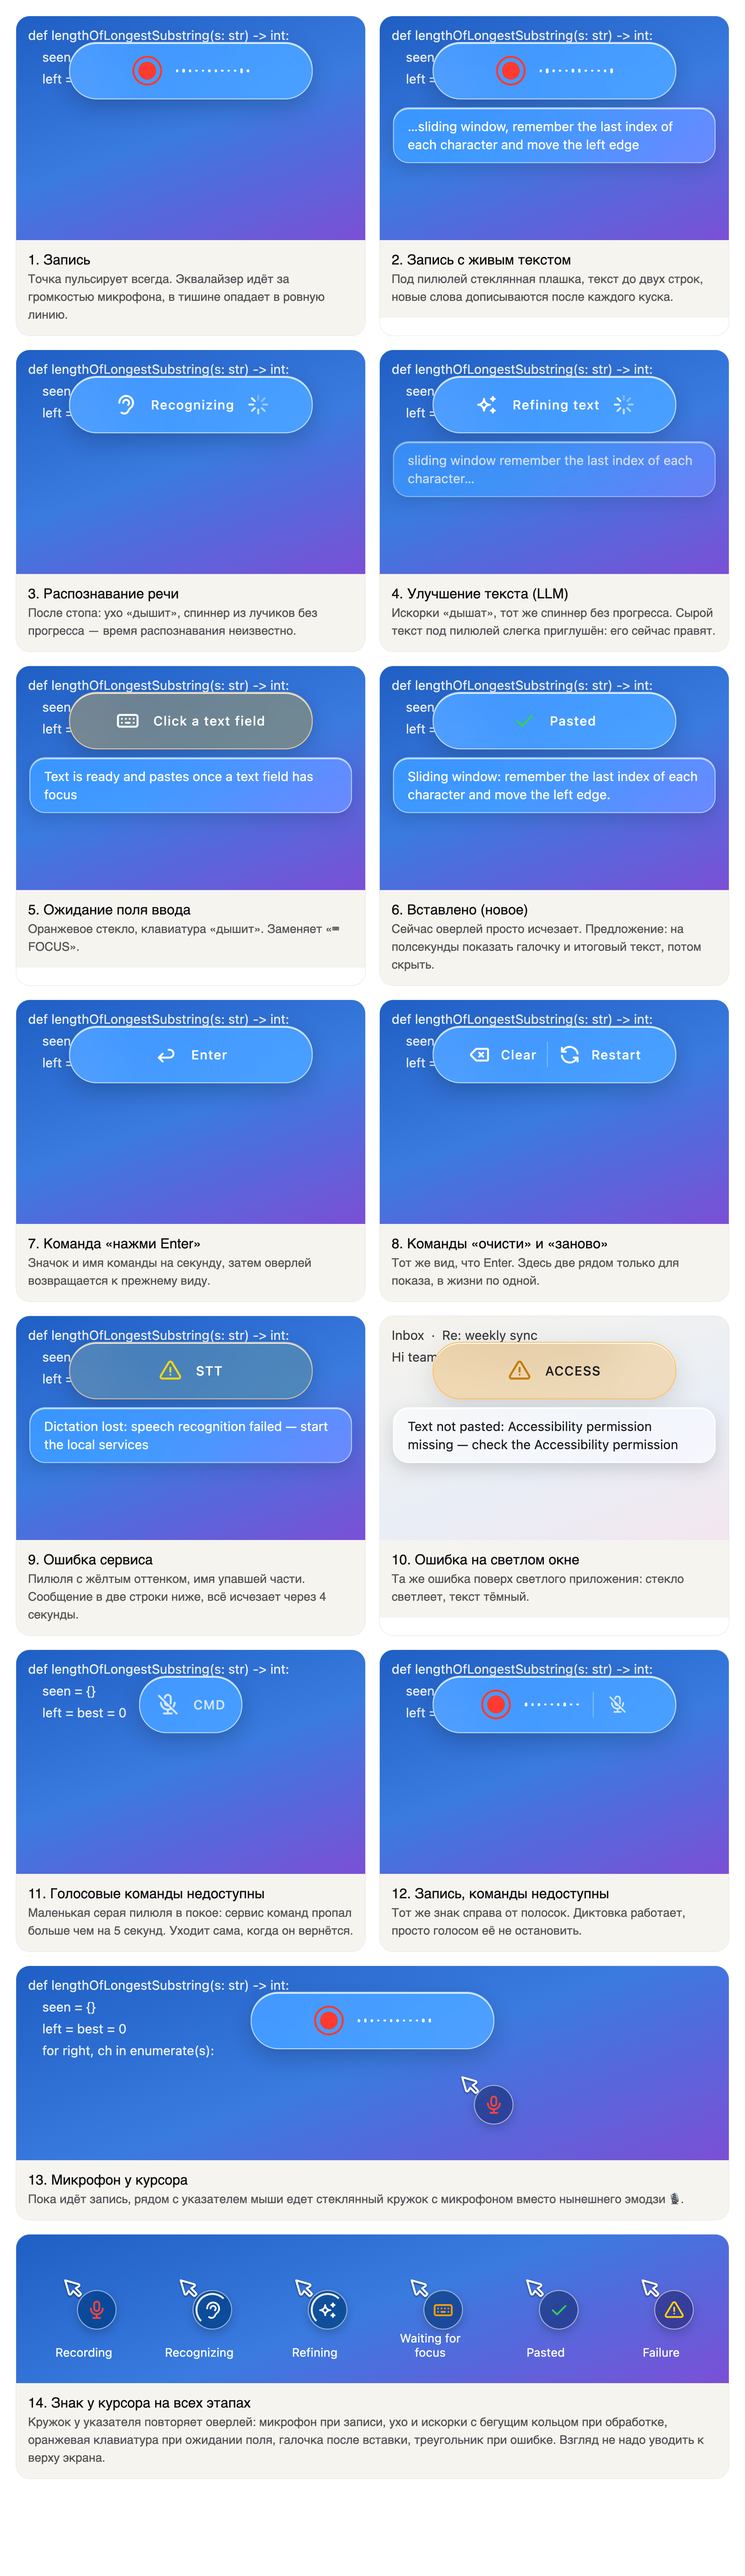
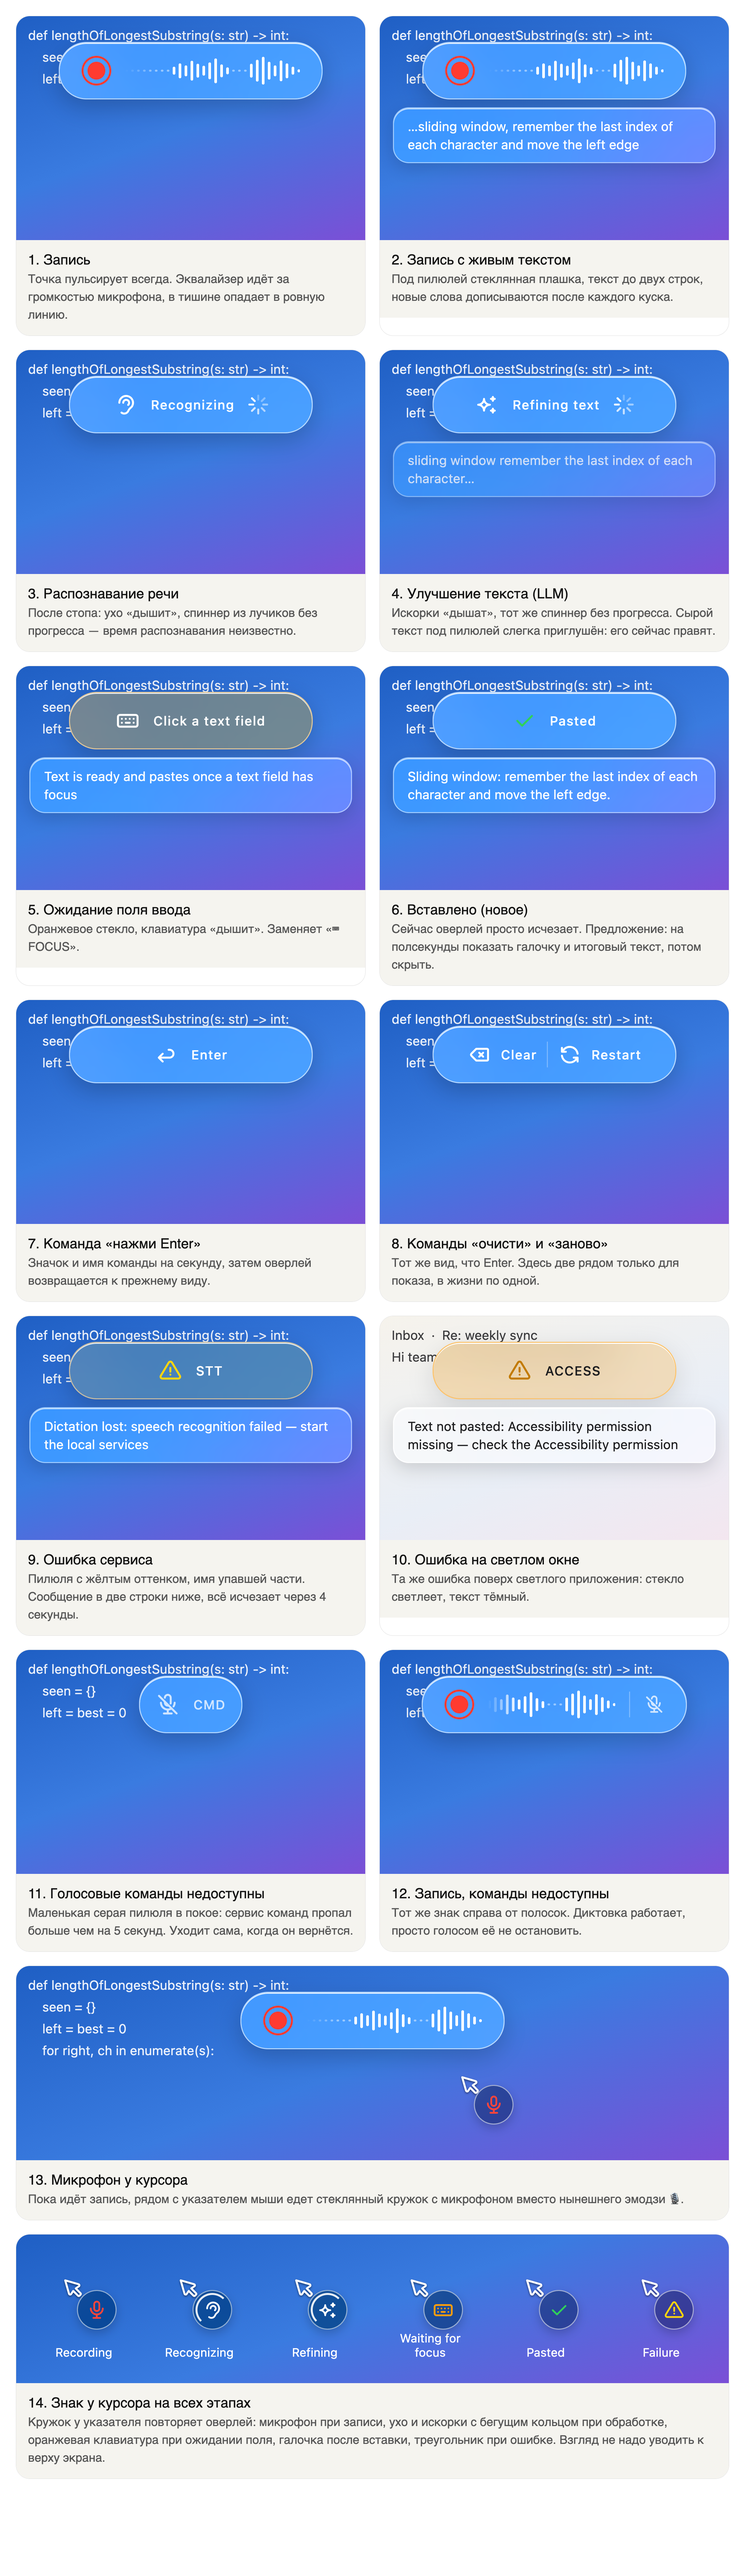
docs(openspec): replace the equalizer with a scrolling waveform in redesign-overlay-liquid-glass (#189)

diff --git a/openspec/changes/redesign-overlay-liquid-glass/mockups/overlay-states.html b/openspec/changes/redesign-overlay-liquid-glass/mockups/overlay-states.html
@@ -20,9 +20,10 @@ body.still *{animation:none!important;transition:none!important}
 .rec{width:26px;height:26px;border-radius:50%;border:2px solid #ff3b30;display:flex;align-items:center;justify-content:center;flex:none}
 .rec i{display:block;width:18px;height:18px;border-radius:50%;background:#ff3b30;animation:rp 1.6s ease-in-out infinite}
 @keyframes rp{50%{transform:scale(.82)}}
-.bars{display:flex;align-items:center;gap:4px;height:28px}
-.bars span{width:2.5px;border-radius:2px;background:currentColor;height:30%;animation:lv 1.1s ease-in-out infinite}
-@keyframes lv{0%,100%{height:22%}50%{height:var(--h)}}
+.bars{position:relative;height:28px;overflow:hidden;flex:none;-webkit-mask-image:linear-gradient(90deg,transparent 0,#000 30px);mask-image:linear-gradient(90deg,transparent 0,#000 30px)}
+.bars .trk{position:absolute;left:0;top:0;bottom:0;display:flex;align-items:center;gap:3.5px;will-change:transform}
+.bars span{flex:none;width:2.5px;border-radius:2px;background:currentColor;height:2px}
+.bars span.q{opacity:.45}
 .ic{font-size:24px;line-height:1}
 .lbl{font-size:13px;font-weight:500;letter-spacing:.06em}
 .spin{width:20px;height:20px;border-radius:50%;border:2.5px solid currentColor;border-right-color:transparent;opacity:.85;animation:sp .9s linear infinite}
@@ -151,10 +152,15 @@ Hi team, quick update on the release —</div>
 </div>
 <script>
 document.querySelectorAll('.spokes').forEach(s=>{for(let i=0;i<8;i++){const b=document.createElement('b');b.style.transform='rotate('+(i*45)+'deg)';b.style.animationDelay=(-(8-i)/8).toFixed(3)+'s';s.appendChild(b)}});
-document.querySelectorAll('.bars').forEach(b=>{const n=+b.dataset.n||12;for(let i=0;i<n;i++){const e=document.createElement('span');e.style.setProperty('--h',(35+Math.round(Math.random()*65))+'%');e.style.animationDelay=(-Math.random()*1.1).toFixed(2)+'s';b.appendChild(e)}});
-const all=[...document.querySelectorAll('.bars')];all.forEach(b=>b.classList.add('eqb'));let lvl=0,t0=performance.now();
-function tick(now){const t=((now-t0)/1000)%5.5,sp=t<3.2;const tg=sp?(0.45+0.55*Math.abs(Math.sin(now/180))*Math.random()):0;lvl+=(tg-lvl)*(sp?0.35:0.12);
-all.forEach(b=>[...b.children].forEach((e,i)=>{const sh=0.55+0.45*Math.sin(i*1.3+now/120);e.style.height=Math.max(2,Math.round(28*lvl*sh*(0.6+0.4*Math.random())))+'px'}));requestAnimationFrame(tick)}
+// Scrolling waveform: one column per 100 ms enters at the right edge and the strip slides left (60 pt/s).
+const PITCH=6,STEP=100;
+const waves=[...document.querySelectorAll('.bars')].map(b=>{const n=(+b.dataset.n||12)===9?22:30;b.style.width=(n*PITCH-3.5)+'px';const tr=document.createElement('div');tr.className='trk';b.appendChild(tr);for(let i=0;i<=n;i++)tr.appendChild(col(0));return {tr,off:0}});
+function col(v){const e=document.createElement('span');const h=Math.max(2,Math.round(28*v));e.style.height=h+'px';if(h<=2)e.classList.add('q');return e}
+let lvl=0,peak=0,last=performance.now(),t0=last;
+function tick(now){const dt=now-last;last=now;const t=((now-t0)/1000)%6,sp=t<3.6&&!(t>1.5&&t<1.9);
+const tg=sp?(0.35+0.65*Math.abs(Math.sin(now/170))*Math.random()):0;lvl+=(tg-lvl)*(tg>lvl?0.35:0.12);peak=Math.max(peak,lvl);
+waves.forEach(w=>{w.off+=dt*PITCH/STEP;while(w.off>=PITCH){w.off-=PITCH;w.tr.firstChild.remove();w.tr.appendChild(col(peak*(0.55+0.45*Math.random())))}w.tr.style.transform='translateX('+(-w.off).toFixed(2)+'px)'});
+if(waves.length&&waves[0].off<dt*PITCH/STEP)peak=lvl;requestAnimationFrame(tick)}
 requestAnimationFrame(tick);
 </script>
 <script>
@@ -164,6 +170,7 @@ if(q.get('bg')==='dark')document.querySelectorAll('.scene').forEach(e=>e.classLi
 if(q.get('only')){document.body.classList.add('one');document.querySelectorAll('.card').forEach(c=>{if(c.dataset.id!==q.get('only'))c.remove()})}
 if(q.get('still')){document.body.classList.add('still');
  document.querySelectorAll('.spokes').forEach(s=>[...s.children].forEach((b,i)=>b.style.opacity=(0.15+0.85*(i+1)/8).toFixed(2)));
- setTimeout(()=>document.querySelectorAll('.bars').forEach(b=>[...b.children].forEach((e,i)=>{const n=b.children.length;const env=Math.sin(Math.PI*(i+0.5)/n);const h=[0.55,0.9,0.4,1,0.7,0.5,0.85,0.35,0.95,0.6,0.75,0.45,0.8,0.5][i%14];e.style.height=Math.max(2,Math.round(28*h*(0.5+0.5*env)))+'px'})),300);
+ setTimeout(()=>{const H=[0,0,0,0,0,0,0,.08,.3,.55,.4,.7,.5,.35,.6,.9,.45,.25,0,0,.06,.5,.8,1,.65,.4,.75,.55,.3,.12];
+  waves.forEach(w=>{const n=w.tr.children.length-1;const hs=H.slice(-n);w.tr.replaceChildren(...hs.map(v=>col(v)));w.tr.style.transform='none'})},300);
  window.requestAnimationFrame=()=>0;}
 </script></body></html>

diff --git a/openspec/changes/redesign-overlay-liquid-glass/proposal.md b/openspec/changes/redesign-overlay-liquid-glass/proposal.md
@@ -1,11 +1,11 @@
 ## Why
 
-The overlay (the pill at the top of the screen, the text window under it and the 🎙 sign next to the mouse pointer) still looks like a flat light-blue plate with text glyphs (`◉ REC`, `⌨ FOCUS`, `⏎ ENTER`, `⚠ STT`). macOS 26 Tahoe draws widgets and panels in Liquid Glass. The user compared six glass styles of the pill on seven backgrounds (white, grey, black, blue with text, a muddy texture, coloured dots, coloured stripes) in mockups in chat and picked the regular frosted glass. Then they validated mockups of every overlay state in that style. The user also wants the pill to show progress honestly: speech recognition and text refinement report no progress, so a spinner must not look like a filling progress ring. And the user wants the equalizer to visibly follow the microphone.
+The overlay (the pill at the top of the screen, the text window under it and the 🎙 sign next to the mouse pointer) still looks like a flat light-blue plate with text glyphs (`◉ REC`, `⌨ FOCUS`, `⏎ ENTER`, `⚠ STT`). macOS 26 Tahoe draws widgets and panels in Liquid Glass. The user compared six glass styles of the pill on seven backgrounds (white, grey, black, blue with text, a muddy texture, coloured dots, coloured stripes) in mockups in chat and picked the regular frosted glass. Then they validated mockups of every overlay state in that style. The user also wants the pill to show progress honestly: speech recognition and text refinement report no progress, so a spinner must not look like a filling progress ring. And the user wants to see the dictation as it goes: a waveform of the microphone level that slides from right to left, as in the voice input of ChatGPT.
 
 ## What Changes
 
 - The pill and the text window under it become regular frosted glass: the system material that blurs and adapts to light or dark content beneath, rounded corners (~28 pt on the pill), a light rim highlight and a soft shadow. Icons replace the text glyphs. Every user-facing overlay label is in English.
-- Recording: a red record dot inside a ring, pulsing all the time, and a new equalizer: about 12–14 thin rounded vertical bars driven by the live microphone level. The bars jump with speech and collapse into a flat line in silence. It replaces the current equalizer.
+- Recording: a red record dot inside a ring, pulsing all the time, and a scrolling waveform instead of the current equalizer: thin rounded vertical columns of the live microphone level, one new column every 100 ms entering at the right edge while the strip slides slowly to the left (like the voice input of ChatGPT), so the last 3 s of dictation stay visible. Speech leaves tall columns, a pause leaves a dotted line; old columns fade out at the left edge.
 - Live transcript: unchanged in behaviour (up to two lines under the pill), drawn in the glass text window.
 - Speech recognition: an ear icon that breathes (fades out and back in), the label "Recognizing" and an indeterminate macOS-style spoke spinner that says nothing about when it ends.
 - Text refinement: a sparkles icon breathing in the same rhythm, the label "Refining text" and the same spoke spinner. The raw transcript under the pill is dimmed while it is refined.
@@ -13,26 +13,26 @@ The overlay (the pill at the top of the screen, the text window under it and the
 - New "Pasted" state: a green check, the label "Pasted" and the final text under the pill for about 0.5 s, then the overlay hides. Today it hides at once.
 - Command signs (Enter, Clear, Restart): an icon and the English name in the glass pill for about 1 s, as today, restyled.
 - Failure notice: amber-tinted glass with a warning triangle and the failing part's short name (STT, REFINE, VOICE, MIC, ACCESS, FAILED), the message (two lines at most) in the glass window under it. It hides after 4 s as today and stays legible over light app windows (darker icon and text there).
-- Commands-unavailable sign: a small grey glass pill with a microphone-off icon and "CMD" alone in standby. During a recording it shows to the right of the equalizer, after a thin separator.
+- Commands-unavailable sign: a small grey glass pill with a microphone-off icon and "CMD" alone in standby. During a recording it shows to the right of the waveform, after a thin separator.
 - Pointer sign: the 🎙 emoji next to the mouse pointer becomes a small round dark-glass badge (~38 pt) that mirrors the overlay at every stage: a red microphone while recording, the ear or the sparkles with a rotating indeterminate ring while processing, a pulsing orange keyboard while waiting for focus, a green check after the paste, an amber triangle on a failure. The system arrow cursor stays as it is: only the badge window next to it changes.
 
 - Design reference: `mockups/design-spec.md` (geometry, colours, icons, motion and a manual-run checklist for every state), the validated pictures of each state at 3× over a blue, a light and a dark window in `mockups/states/`, the overview `mockups/overlay-states-overview.png`, the animated mockup source `mockups/overlay-states.html` and the icons in `mockups/icons/`. The implementation matches these pictures.
 
 Current stage: PoC. Target stage: PoC.
-Scope: the look and the states of the overlay pill, its text window and the pointer sign, including the new Pasted state and the level-driven equalizer.
-Acceptance bar: every state above appears in the manual run as in the validated mockups, legible over light, dark and busy app windows; the equalizer follows speech and goes flat in silence; the spinners are indeterminate; the user pastes a healthy log of a manual run.
+Scope: the look and the states of the overlay pill, its text window and the pointer sign, including the new Pasted state and the scrolling waveform.
+Acceptance bar: every state above appears in the manual run as in the validated mockups, legible over light, dark and busy app windows; the waveform slides right to left, with tall columns for speech and dots for silence; the spinners are indeterminate; the user pastes a healthy log of a manual run.
 Out of scope: when each state shows and for how long (except the new Pasted state), the failure notice wording, the pointer sign's distance from the cursor (change bring-dictation-cursor-mic-closer), voice commands, any non-overlay UI.
 
 ## Capabilities
 
 ### Modified Capabilities
 
-- `visual-feedback`: the overlay's look, its icons and English labels, the level-driven equalizer, the indeterminate spinners, the new Pasted state and the pointer sign's state-mirroring badge.
+- `visual-feedback`: the overlay's look, its icons and English labels, the scrolling level waveform, the indeterminate spinners, the new Pasted state and the pointer sign's state-mirroring badge.
 
 ## Impact
 
 - `app/src/adapters/secondary/visualfeedback/` (macOS overlay windows, pill, text window, pointer sign).
-- `app/src/core/application/visual_indicator.rs` and the pipeline, for the Pasted signal and the microphone level feeding the equalizer.
+- `app/src/core/application/visual_indicator.rs` and the pipeline, for the Pasted signal and the microphone level feeding the waveform.
 - `docs/ubiquitous-language.md` (Pasted sign, pointer sign states).
 - Slice/component `.feature` files of the overlay capability.
 

diff --git a/openspec/changes/redesign-overlay-liquid-glass/mockups/design-spec.md b/openspec/changes/redesign-overlay-liquid-glass/mockups/design-spec.md
@@ -35,7 +35,7 @@ All pictures are rendered at 3× (1 pt = 3 px). Sizes below are in points.
   indeterminate macOS spoke spinner (`NSProgressIndicator`, `.spinning`, indeterminate), never a ring that fills.
 - **All user-facing labels in English.**
 - **Reduce Motion** (`NSWorkspace.shared.accessibilityDisplayShouldReduceMotion`): no breathing, no dot pulse, no
-  rise-in; spinners and the equalizer still move. **Reduce Transparency**: the material turns opaque by itself;
+  rise-in; spinners still move and the waveform still scrolls. **Reduce Transparency**: the material turns opaque by itself;
   keep the rim and the tints.
 
 ## 2. Geometry
@@ -73,7 +73,7 @@ message.
 | Item | Size |
 |---|---|
 | Record sign | ring 26 diameter, 2 pt stroke `systemRed`; dot 18 diameter inside, `systemRed` |
-| Equalizer | 12 bars (9 when the commands-unavailable sign shares the pill), each 2.5 wide with fully round ends, 4 apart, 28 tall area, vertically centred; a bar is never shorter than 2 |
+| Waveform | a scrolling strip of level columns (§ 6): 30 columns (22 when the commands-unavailable sign shares the pill), each 2.5 wide with fully round ends, 3.5 apart (pitch 6), so 176.5 wide (128.5 with 22); 28 tall area, vertically centred; a column is never shorter than 2; the left 30 pt fade out (alpha mask 0 → 1) |
 | State icon | SF Symbol, point size 20–22, weight medium (it fills a 24 pt box) |
 | Label | system font 13, weight medium, tracking +0.5 (≈ 0.04 em) |
 | Spoke spinner | 20 × 20, `NSProgressIndicator` `.spinning`, `controlSize = .small`, indeterminate |
@@ -131,11 +131,11 @@ Each state lists its picture, its parts left to right, its text window and its m
 of § 3.
 
 ### 5.1 Recording — `states/01-recording--*.png`
-- Pill: record sign, equalizer. No label.
+- Pill: record sign, waveform. No label.
 - Text window: hidden until the first chunk has text (then § 5.2).
 - Motion: the dot pulses all the time — scale 1 → 0.8 → 1 and opacity 1 → 0.75 → 1, 1.6 s, ease-in-out,
-  forever; the ring stays still. The equalizer follows the microphone (§ 6).
-- Replaces: `◉ REC` and the current equalizer.
+  forever; the ring stays still. The waveform scrolls right to left and shows the microphone level of the last 3 s (§ 6).
+- Replaces: `◉ REC` and the current equalizer (its bars jump in place; the waveform scrolls instead).
 
 ### 5.2 Recording with the live transcript — `states/02-recording-live-transcript--*.png`
 - Pill: as § 5.1.
@@ -194,7 +194,7 @@ of § 3.
 - Replaces: grey `⊘ CMD`.
 
 ### 5.12 Recording while commands are unavailable — `states/12-recording-commands-unavailable--*.png`
-- Pill: record sign, equalizer (9 bars), separator, `mic.slash` at 80 % (no label).
+- Pill: record sign, waveform (22 columns), separator, `mic.slash` at 80 % (no label).
 - Beside the processing and waiting states the same separator + `mic.slash` follow their spinner or label.
 
 ### 5.13 Pointer badge — `states/13-pointer-badge-recording--*.png`, `states/14-pointer-badges-all-states--*.png`
@@ -212,24 +212,39 @@ The badge mirrors the overlay at every stage:
 
 Replaces: the 🎙 emoji that follows the pointer only while recording.
 
-## 6. Equalizer behaviour
+## 6. Waveform behaviour
+
+The waveform is a strip of level history, like the voice input of chat apps: every new column enters at the right
+edge and the whole strip slides slowly to the left, so the user sees how the dictation went over the last seconds.
+Reference: `waveform-reference.png`, the scrolling waveform of the ChatGPT voice input (grey rounded columns, dots
+in pauses).
 
 - Input: the microphone level of the running recording, about 30–60 updates per second, as RMS of the latest
   capture buffer converted to dBFS and mapped linearly from −50 dB (0) to −10 dB (1), clamped.
-- Smoothing: rise fast, fall slower — each frame `level += (target − level) × 0.35` when rising and `× 0.12` when
+- Smoothing: rise fast, fall slower — each update `level += (target − level) × 0.35` when rising and `× 0.12` when
   falling (at 60 fps ≈ 50 ms attack, 130 ms release).
-- Bar height: `max(2, 28 × level × shape_i)`, where `shape_i` in 0.5…1 differs per bar and drifts slowly (e.g.
-  `0.55 + 0.45 × sin(i × 1.3 + t × 8)`) so the bars do not move as one block; a light per-frame jitter (±20 %) keeps
-  them alive while speaking.
-- Silence: the level falls to 0, every bar settles at 2 pt — a flat dotted line, still visible.
-- Draw it in one custom `NSView`/`CALayer` per pill (rounded rects), redrawn on a display link; no allocation per
-  frame.
+- Columns: one column per 100 ms (10 per second). Its value is the peak of the smoothed level inside that 100 ms
+  window; its height is `max(2, 28 × value)`, centred vertically. Columns are never recomputed once added.
+- Scrolling: the strip moves left continuously at pitch / 100 ms = 60 pt/s, sub-pixel, on the display link —
+  not in 6 pt jumps. When the offset reaches one pitch, the leftmost column is dropped and the new one appended on
+  the right. With 30 columns the strip shows the last 3 s (2.2 s with 22).
+- Silence: a column whose height is 2 is a dot drawn at 45 % of the content alpha; a pause reads as a dotted line
+  that slides away, like the reference. When recording starts the strip is all dots.
+- Left edge: an alpha mask fades the leftmost 30 pt from 0 to 1, so old columns dissolve instead of being cut.
+- Colour: content colour of § 3 (white over saturated and dark content, `#1D1D1F` over light content).
+- Reduce Motion: the strip still updates (it carries information) but steps one column per 100 ms instead of
+  sliding.
+- Draw it in one custom `NSView`/`CALayer` per pill (a ring buffer of column values, rounded rects), redrawn on a
+  display link; no allocation per frame.
+- Pictures: `states/01-*`, `02-*`, `12-*` show a still frame — a pause on the left (dots fading in), speech, a short
+  pause, speech; `overlay-states.html` without `still=1` shows the motion.
 
 ## 7. Timing summary
 
 | What | Duration | Curve |
 |---|---|---|
 | Record dot pulse | 1.6 s, forever | ease-in-out |
+| Waveform column / scroll | 100 ms per column, 60 pt/s | linear |
 | Icon breathing | 1.4 s, forever | ease-in-out |
 | Spoke spinner | system | — |
 | Pointer activity ring | 0.9 s per turn | linear |
@@ -243,7 +258,7 @@ Replaces: the 🎙 emoji that follows the pointer only while recording.
 - [ ] Every state of § 5 appears and matches its `--blue` picture over a saturated window and its `--light` picture
       over a light window.
 - [ ] The labels read Recognizing, Refining text, Click a text field, Pasted, Enter, Clear, Restart.
-- [ ] The equalizer jumps with speech and lies flat in silence; the dot keeps pulsing either way.
+- [ ] The waveform slides right to left without jerks; speech leaves tall columns, silence a dotted line; the dot keeps pulsing either way.
 - [ ] No spinner fills up; both processing states use the spoke spinner.
 - [ ] The failure notice is legible over a white window.
 - [ ] The pointer badge follows the pointer in every state of § 5.13 and the system arrow is unchanged.
